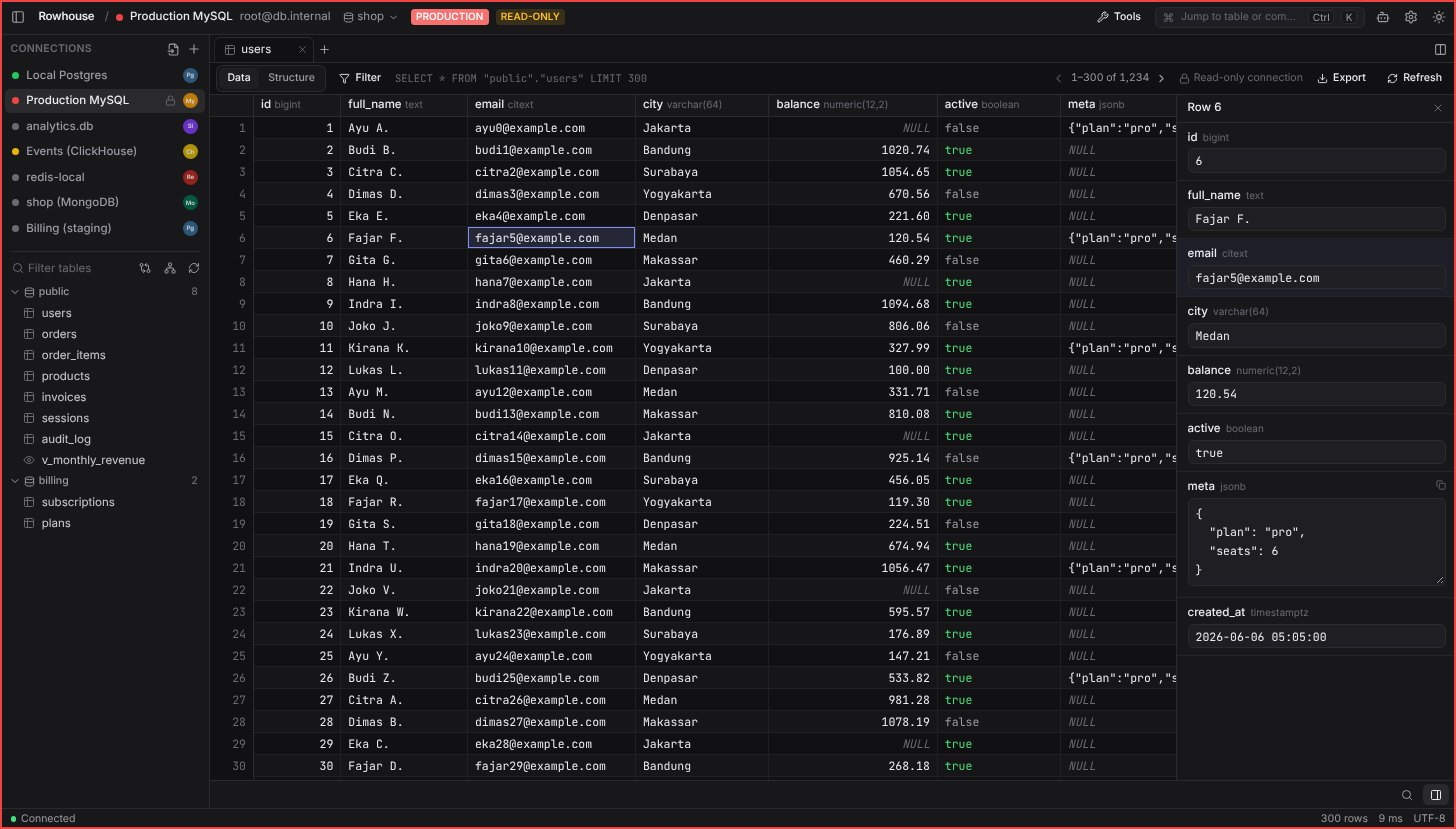
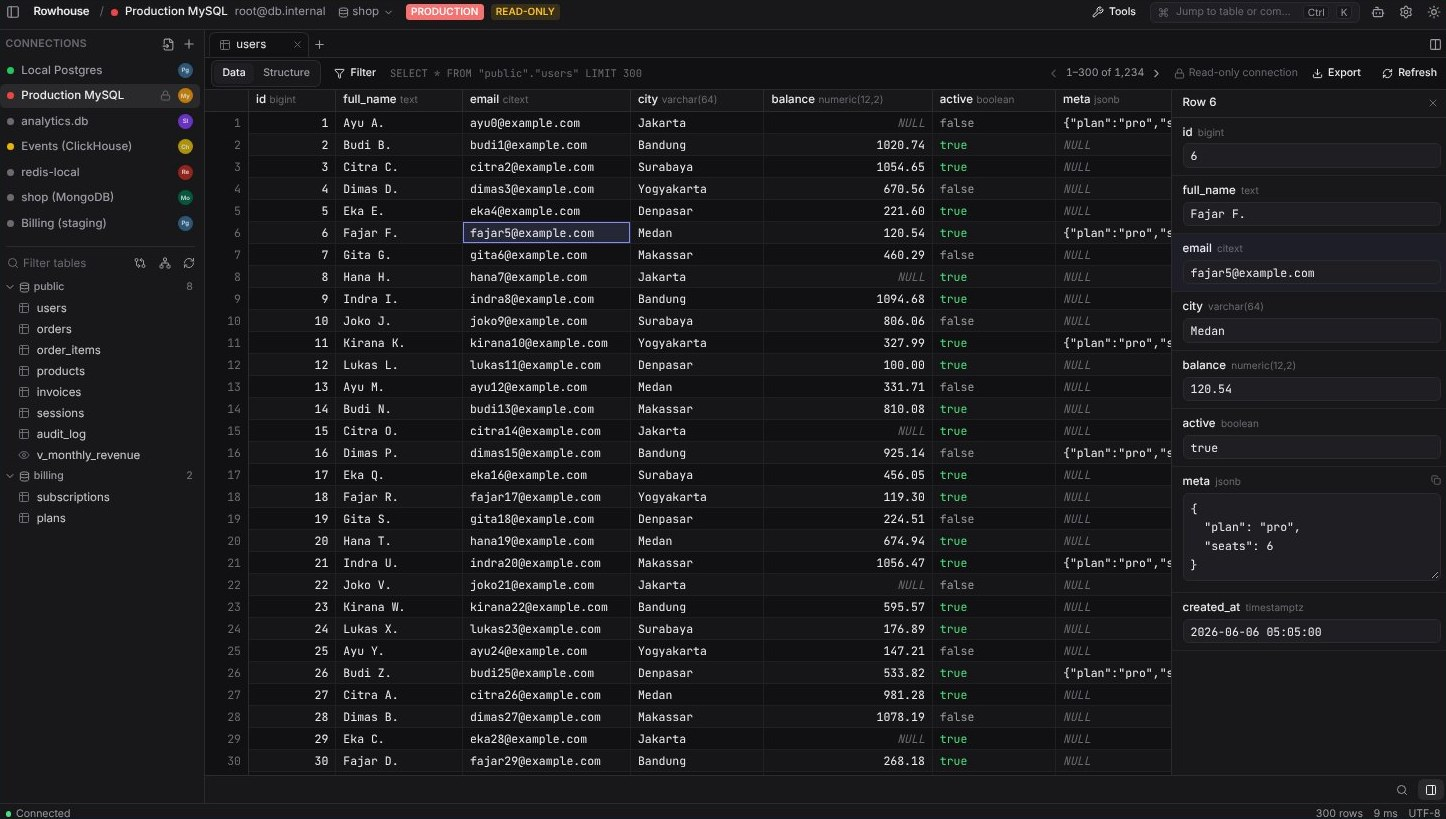
fix(landing): remove production red ring from hero shots, bump pill to v0.5

diff --git a/docs/index.html b/docs/index.html
@@ -369,7 +369,7 @@
     <section class="hero">
       <div class="pad">
         <div class="stagger">
-            <span class="eyebrow"><span class="dot"></span> Open source · Tauri 2 <span class="pill">v0.4</span></span>
+            <span class="eyebrow"><span class="dot"></span> Open source · Tauri 2 <span class="pill">v0.5</span></span>
             <h1>The database client with an <span class="hl">AI copilot</span> built in.</h1>
             <p class="lede">A fast, compact SQL client for Postgres, MySQL and SQLite — bundled with a read-only MCP server so Claude and other assistants can explore your data safely, through the same connections you already use.</p>
             <div class="cta-row">
